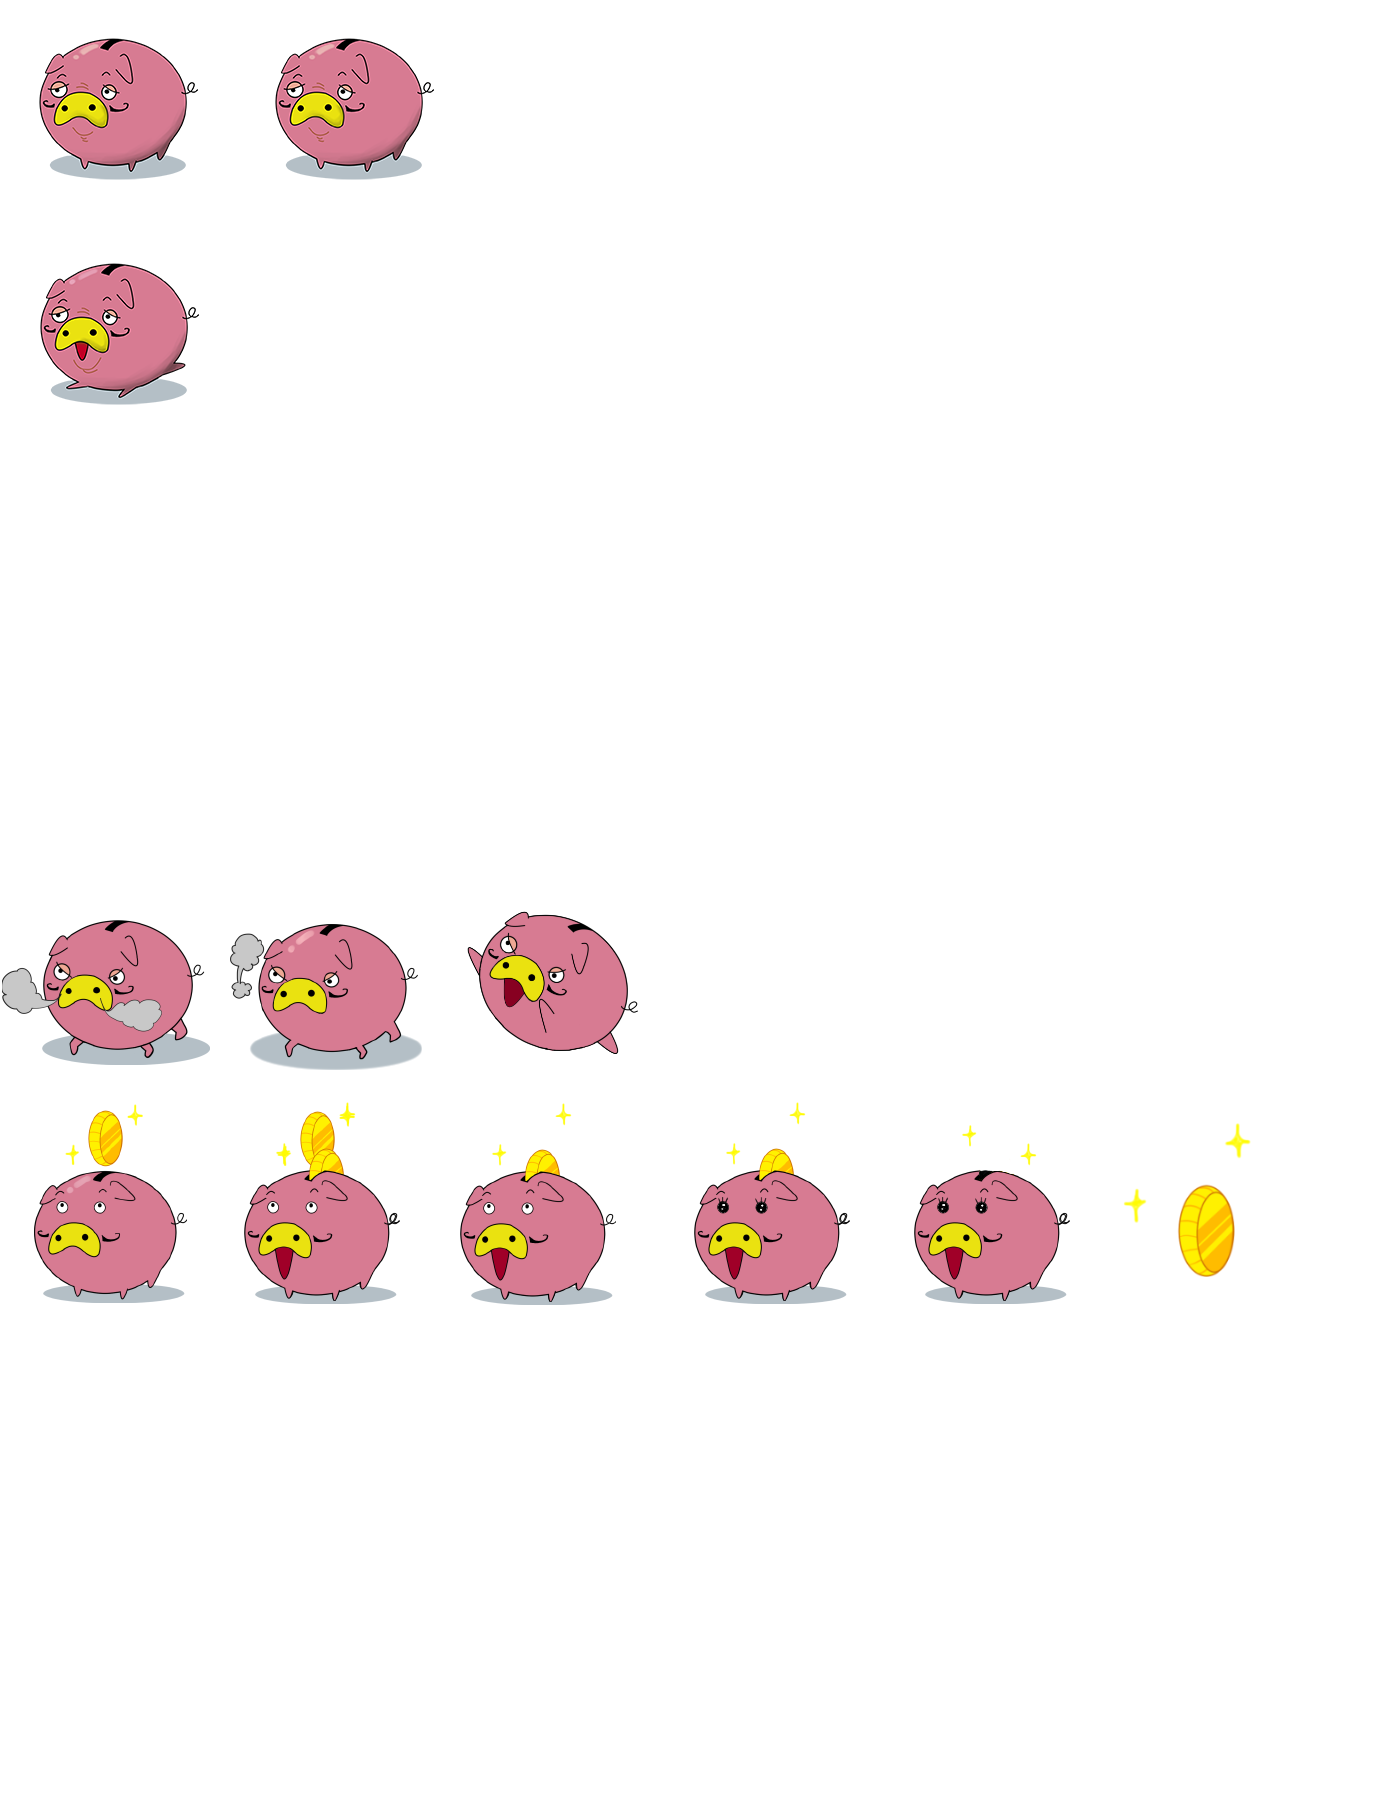
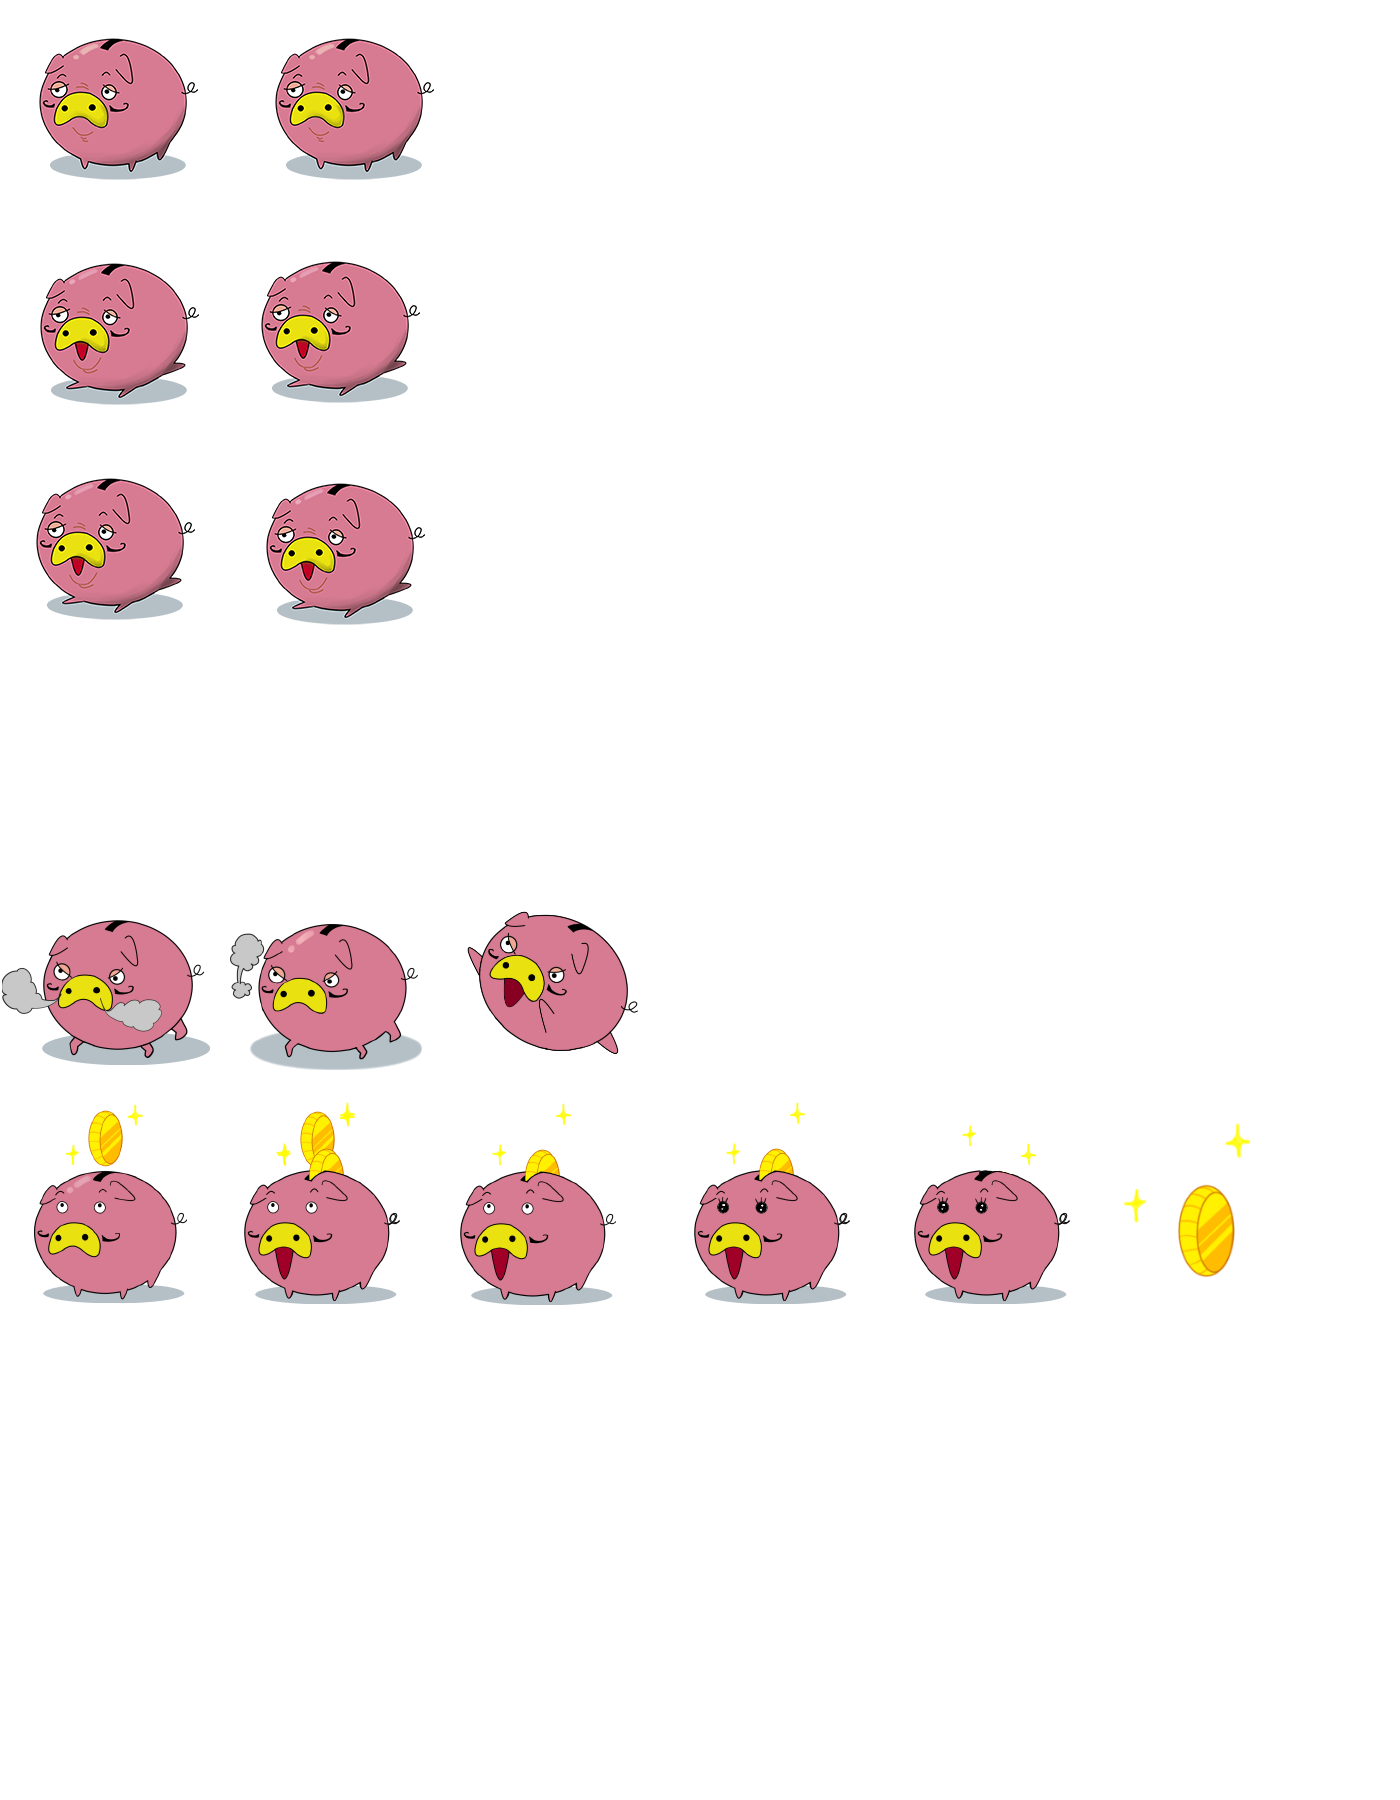
敵行動（仮）追加

Changed region(s): [[0.1843, 0.1244, 0.3071, 0.3733], [0.0307, 0.2489, 0.1536, 0.3422]]

diff --git a/高松/Berun/Berun_Project/Game/Enemy/CEnemy.cpp b/高松/Berun/Berun_Project/Game/Enemy/CEnemy.cpp
@@ -12,13 +12,16 @@
 
 CEnemy::CEnemy(int type):CCharaBase(type,eEnemy,eUDP_Enemy,eDWP_Enemy)
 {
-
-	m_pos = CVector3D(1000, 0 ,300);
-	m_enemyHp = dynamic_cast<CImage*>(CResourceManager::GetInstance()->Get("Meter"));
+	mp_player = CPlayer::mp_player;
+	CVector3D vec = mp_player->GetPos() - m_pos;
+	srand(time(nullptr));
+	
+	m_pos = CVector3D(5120/vec.x, 0 ,10+50);
+	
 	m_enemyTime = 0;
 	m_enemyHp->SetColor(1, 0, 0, 1);
-
-	mp_player = CPlayer::mp_player;
+	
+	
 	
 }
 CEnemy::~CEnemy() {
@@ -26,21 +29,76 @@ CEnemy::~CEnemy() {
 }
 void CEnemy::Contlol() {
 	CCharaBase::ResetKey();
+	if (m_cont <= 100) {
+		srand(time(nullptr));
+		m_enemyPatarn = rand()%3;
+	}
+	if (m_cont >= 100) {
+		m_cont = 0;
+		m_enemyPatarn = 0;
+	}
 	m_enemyTime++;
-	CVector3D vec = mp_player->GetPos();
-	if (eChick) {
+	CVector3D vec = mp_player->GetPos() - m_pos;
+	
 		if (m_enemyTime > 120 && m_enemyTime < 200) {
 			m_left = true;
 		}
-		if (m_enemyTime > 200) {
 		
+		if (m_enemyTime > 200) {
+			m_left = true;
 			m_dash = true;
+			m_enemyTime = 250;
+			if (m_enemyPatarn == 0) {
+				if (vec.x < -100) {
+					m_pos.x -= 3;
+				}
+				if (vec.x > 100) {
+					m_pos.x += 3;
+				}
+				if (vec.z > -120) {
+					m_pos.z += 3;
+				}
+				if (vec.z < 120) {
+					m_pos.z -= 3;
+				}
+			}
+			if (m_enemyPatarn == 1) {
+				if (vec.x < 100) {
+					m_pos.x -= 1;
+				}
+				if (vec.x > -100) {
+					m_pos.x += 1;
+				}
+				if (vec.z > 120) {
+					m_pos.z += 1;
+				}
+				if (vec.z < -120) {
+					m_pos.z -= 1;
+				}
+			}
+			if (m_enemyPatarn == 2) {
+				m_left = false;
+				m_dash = false;
+				m_attack = true;
+				if (vec.x < -100) {
+					m_pos.x -= 3;
+				}
+				if (vec.x > 100) {
+					m_pos.x += 3;
+				}
+				if (vec.z > -120) {
+					m_pos.z += 3;
+				}
+				if (vec.z < 120) {
+					m_pos.z -= 3;
+				}
+			}
+
+		
 			
 		}
-		
-		
-//		if (m_enemyTime > 250) ChangeAnimation();
-	}
+	
+
 	
 		
 	

diff --git a/高松/Berun/Berun_Project/System/CharaBase/CCharaBase.cpp b/高松/Berun/Berun_Project/System/CharaBase/CCharaBase.cpp
@@ -18,9 +18,9 @@ T_AnimData _playerWAnimData[] = {
 T_AnimData _carrotAnimData[] = {
 	{ 9,5 },
 	{ 2,5 },
+	{ 2,5 },
 	{ 0,0 },
-	{ 0,0 },
-	{ 6,3 },
+	{ 5,3 },
 	{ 1,5 },
 	
 
@@ -38,7 +38,7 @@ T_AnimData _chickAnimData[] = {
 T_AnimData _pigAnimData[] = {
 	{ 2,5 },
 	{ 1,5 },
-	{ 0,0 },
+	{ 2,5 },
 	{ 0,0 },
 	{ 3,3 },
 	{ 6,10 },
@@ -47,7 +47,7 @@ T_AnimData _pigAnimData[] = {
 T_AnimData _fishAnimData[] = {
 	{ 2,10 },
 	{ 2,5 },
-	{ 0,0 },
+	{ 2,5 },
 	{ 0,0 },
 	{ 5,3 },
 	{ 5,10 },

diff --git a/高松/Berun/Berun_Project/Game/Enemy/CEnemy.h b/高松/Berun/Berun_Project/Game/Enemy/CEnemy.h
@@ -9,7 +9,7 @@
 #include"../Global.h"
 #include "../../System/CharaBase/CCharaBase.h"
 class CPlayer;
-
+class CEnemyManager;
 
 
 
@@ -20,8 +20,10 @@ private:
 	void Contlol();
 	int m_enemyAppears;
 	CPlayer *mp_player;
-	int m_enemyTime;
 
+	int m_enemyTime;
+	int m_enemyPatarn;
+	int m_cont;
 public:
 	
 	CEnemy(int type);

diff --git a/高松/Berun/Berun_Project/Game/CGame.cpp b/高松/Berun/Berun_Project/Game/CGame.cpp
@@ -33,7 +33,7 @@ switch (m_step)
 		{	
 			mp_player = new CPlayer(g_tutorialNo);
 			new CEnemyManager();
-			mp_enemy = new CEnemy(eChick);
+			mp_enemy = new CEnemy(eCarrot);
 			mp_tutorial->SetDestroyFlag(true);
 			mp_img[0]->SetPos(280, 310);
 			mp_img[0]->SetSize(700, 150);

diff --git a/高松/Berun/Berun_Project/Game/Enemy/CEnemyManager.cpp b/高松/Berun/Berun_Project/Game/Enemy/CEnemyManager.cpp
@@ -5,12 +5,11 @@
 
 
 
-
 CEnemyManager::CEnemyManager():CTask(0,0,0) {
 	m_enemyCont = 0;
 	m_enemy = 0;
 	mp_player = CPlayer::mp_player;
-
+	m_enemyHp = dynamic_cast<CImage*>(CResourceManager::GetInstance()->Get("Meter"));
 }
 CEnemyManager::~CEnemyManager() {
 

diff --git a/高松/Berun/Berun_Project/Game/Enemy/CEnemyManager.h b/高松/Berun/Berun_Project/Game/Enemy/CEnemyManager.h
@@ -23,9 +23,10 @@ private:
 	int m_enemy;
 	int m_enemyType;
 	CPlayer *mp_player;
+	CImage *m_enemyHp;
 //	static CEnemyManager* m_instance;
 public:
-
+	
 	CEnemyManager();
 
 	~CEnemyManager();
